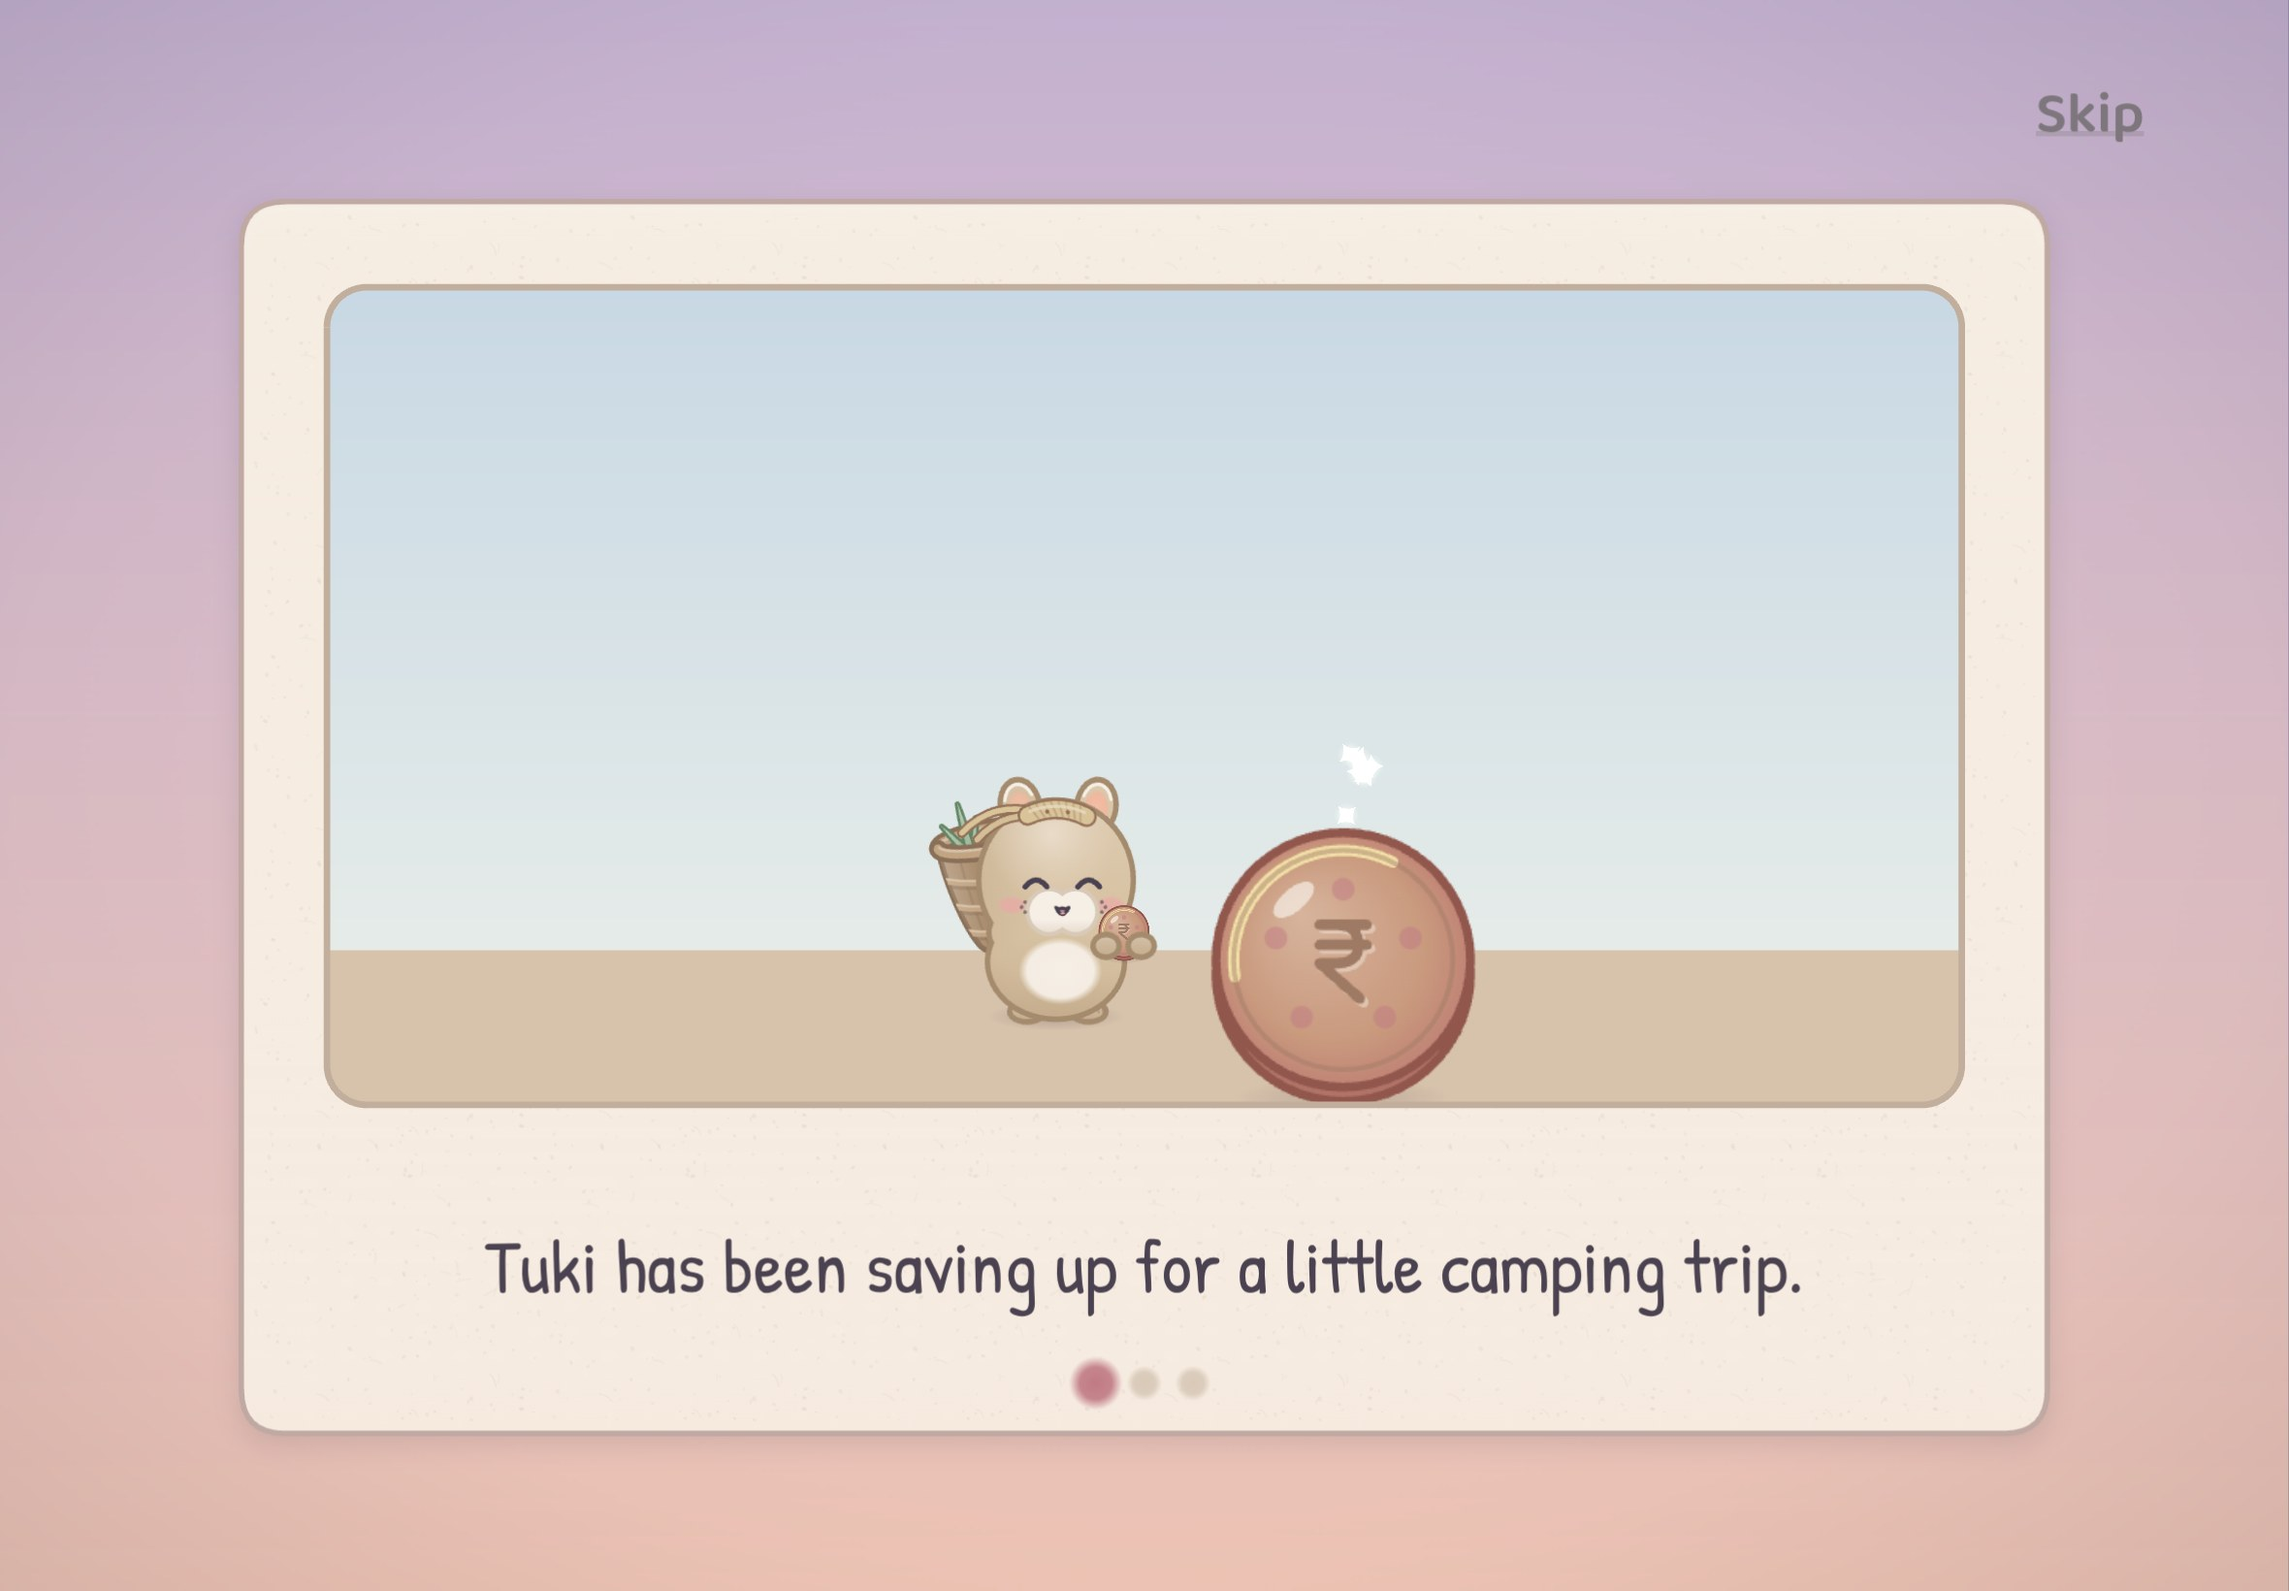
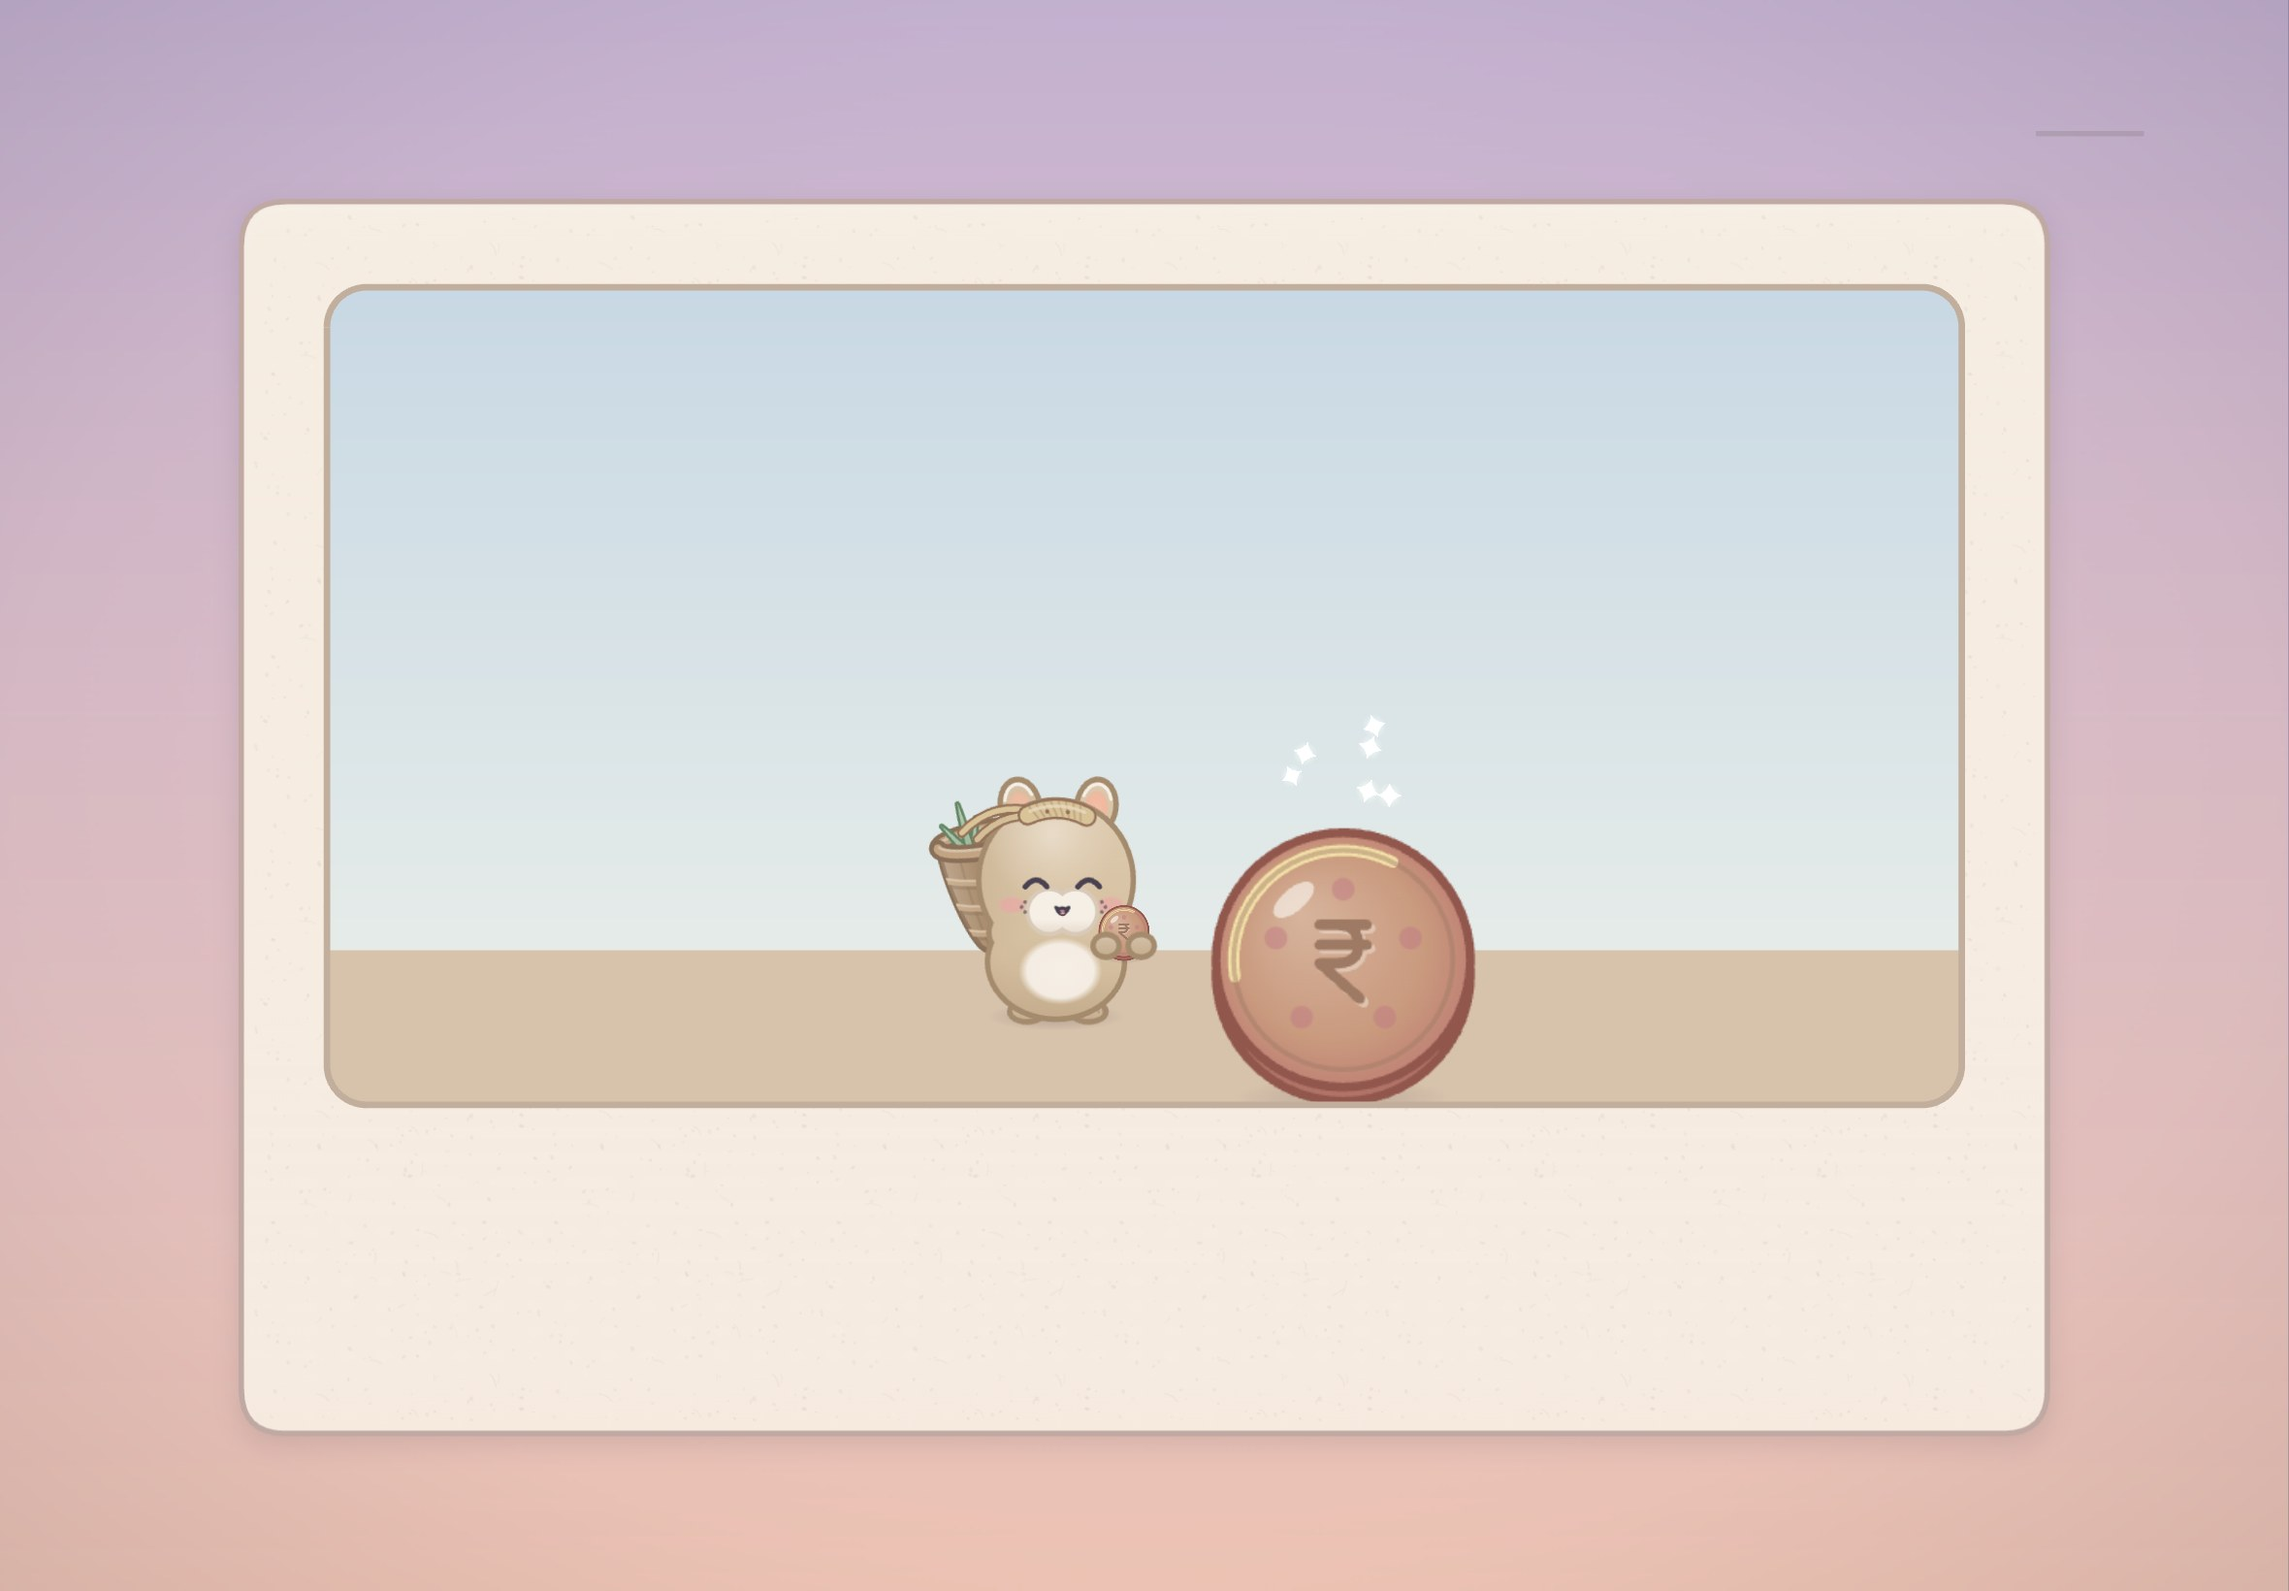
90-second 9:16 trailer page: real game frames, storybook captions, live fireflies/rain/glow, the game's own score
Claude-Session: https://claude.ai/code/session_016FFXaF7koL1CzQcgHmTiq6

Changed region(s): [[0.2165, 0.7774, 0.7733, 0.9018], [0.5568, 0.4665, 0.6186, 0.5287], [0.897, 0.0622, 0.928, 0.0933]]

diff --git a/marketing/trailer/trailer.html b/marketing/trailer/trailer.html
@@ -1,3 +1,4 @@
+<meta charset="utf-8">
 <title>Moonlight Momos Trailer</title>
 <meta name="claude:viewport-fit-sides" content="cover">
 <meta name="description" content="A 90-second vertical trailer for Moonlight Momos, a tiny camping trip.">
@@ -62,15 +63,16 @@
   .shade {
     pointer-events: none;
     background:
-      linear-gradient(to bottom, rgba(27, 29, 51, 0.38) 0%, rgba(27, 29, 51, 0) 18%, rgba(27, 29, 51, 0) 58%, rgba(27, 29, 51, 0.62) 100%),
+      linear-gradient(to bottom, rgba(27, 29, 51, 0.55) 0%, rgba(27, 29, 51, 0.22) 22%, rgba(27, 29, 51, 0) 38%, rgba(27, 29, 51, 0) 72%, rgba(27, 29, 51, 0.35) 100%),
       radial-gradient(130% 90% at 50% 45%, rgba(0, 0, 0, 0) 60%, rgba(18, 16, 30, 0.35) 100%);
   }
   .caps { pointer-events: none; }
+  /* Captions sit in the upper third: Reels covers the bottom fifth with its own UI. */
   .cap {
     position: absolute;
     left: 9cqw;
     right: 9cqw;
-    bottom: 15cqh;
+    top: 15cqh;
     margin: 0;
     font-family: var(--story);
     font-size: clamp(18px, 7.4cqw, 44px);
@@ -82,9 +84,8 @@
     opacity: 0;
     will-change: opacity, transform;
   }
-  .cap.top { bottom: auto; top: 11cqh; }
-  .cap.low { bottom: 5cqh; }
-  .endcard { display: grid; align-content: center; justify-items: center; gap: 2.4cqh; pointer-events: none; padding-bottom: 18cqh; }
+  .cap.top { top: 11cqh; }
+  .endcard { display: grid; align-content: start; justify-items: center; gap: 2.4cqh; pointer-events: none; padding-top: 13cqh; }
   .endcard img { width: 82cqw; max-width: 100%; opacity: 0; will-change: transform, opacity; }
   .endcard p { margin: 0; opacity: 0; text-align: center; }
   .endcard .tag { font-family: var(--story); font-size: clamp(18px, 7cqw, 42px); text-shadow: 0 2px 0 rgba(42, 36, 54, 0.55); }
@@ -110,7 +111,7 @@
     padding: 0 8cqw 9cqh;
     background:
       linear-gradient(to bottom, rgba(27, 29, 51, 0.05) 0%, rgba(27, 29, 51, 0.25) 45%, rgba(27, 29, 51, 0.85) 100%),
-      var(--poster-img, none) center / cover no-repeat;
+      var(--poster-img, none) 44% 50% / cover no-repeat;
     text-align: center;
     z-index: 5;
   }
@@ -220,23 +221,24 @@
   // fx: live layers drawn over the frame.
   var SHOTS = [
     { src: 'lake_glow_3', t0: 0, dur: 7400, fade: 900, from: { cx: 0.66, cy: 0.64, z: 1.2 }, to: { cx: 0.84, cy: 0.6, z: 1.4 }, fx: [{ k: 'glow', at: 'lake_glow.glow', r: 0.035 }, { k: 'fireflies', n: 10, y0: 0.5, y1: 0.85 }] },
-    { src: 'intro', t0: 7000, dur: 7400, fade: 900, from: { cx: 0.525, cy: 0.42, z: 1.42 }, to: { cx: 0.525, cy: 0.41, z: 1.52 }, fx: [{ k: 'sparkles', at: [0.59, 0.56], n: 6 }] },
+    { src: 'intro', t0: 7000, dur: 7400, fade: 900, from: { cx: 0.525, cy: 0.5, z: 1.36 }, to: { cx: 0.525, cy: 0.52, z: 1.46 }, fx: [{ k: 'sparkles', at: [0.59, 0.56], n: 6 }] },
     { src: 'shop', t0: 14000, dur: 8400, fade: 900, from: { cx: 0.2, cy: 0.45, z: 1.18 }, to: { cx: 0.23, cy: 0.42, z: 1.32 }, fx: [{ k: 'motes', n: 12 }] },
     { src: 'dawn', t0: 22000, dur: 10400, fade: 1000, from: { cx: 0.34, cy: 0.52, z: 1.06 }, to: { cx: 0.55, cy: 0.55, z: 1.14 }, fx: [{ k: 'motes', n: 18 }] },
     { src: 'bite', t0: 32000, dur: 3400, fade: 400, from: { cx: 0.75, cy: 0.64, z: 1.2 }, to: { cx: 0.77, cy: 0.66, z: 1.32 }, fx: [] },
     { src: 'catch', t0: 35000, dur: 3400, fade: 300, from: { cx: 0.5, cy: 0.5, z: 0.995 }, to: { cx: 0.5, cy: 0.5, z: 1.03 }, fx: [{ k: 'sparkles', at: [0.5, 0.3], n: 14 }] },
-    { src: 'forage', t0: 38000, dur: 3400, fade: 400, from: { cx: 0.42, cy: 0.6, z: 1.25 }, to: { cx: 0.46, cy: 0.6, z: 1.32 }, fx: [{ k: 'motes', n: 10 }] },
-    { src: 'kopila', t0: 41000, dur: 3400, fade: 400, from: { cx: 0.36, cy: 0.6, z: 1.4 }, to: { cx: 0.38, cy: 0.6, z: 1.52 }, fx: [] },
-    { src: 'fire', t0: 44000, dur: 8400, fade: 1000, from: { cx: 0.5, cy: 0.55, z: 1.05 }, to: { cx: 0.5, cy: 0.6, z: 1.3 }, fx: [{ k: 'fireflies', n: 26, y0: 0.35, y1: 0.85 }, { k: 'embers', at: 'fire.fire' }] },
-    { src: 'rain', t0: 52000, dur: 3900, fade: 900, from: { cx: 0.55, cy: 0.55, z: 1.1 }, to: { cx: 0.56, cy: 0.58, z: 1.2 }, fx: [{ k: 'rain', n: 90 }] },
-    { src: 'scale', t0: 55500, dur: 3100, fade: 900, from: { cx: 0.62, cy: 0.62, z: 1.35 }, to: { cx: 0.66, cy: 0.64, z: 1.5 }, fx: [{ k: 'glow', at: 'scale.scale', r: 0.05, tint: '220,232,245' }, { k: 'sparkles', at: 'scale.scale', n: 8 }] },
-    { src: 'legend', t0: 58200, dur: 6200, fade: 800, from: { cx: 0.2, cy: 0.52, z: 1.05 }, to: { cx: 0.22, cy: 0.5, z: 1.2 }, fx: [] },
-    { src: 'momos', t0: 64000, dur: 6400, fade: 800, from: { cx: 0.5, cy: 0.45, z: 1.0 }, to: { cx: 0.5, cy: 0.42, z: 1.12 }, fx: [{ k: 'sparkles', at: 'center', n: 16 }] },
-    { src: 'finale_a', t0: 70000, dur: 3000, fade: 1000, from: { cx: 0.6, cy: 0.58, z: 1.2 }, to: { cx: 0.64, cy: 0.58, z: 1.28 }, fx: [{ k: 'rain', n: 60 }] },
-    { src: 'finale_b', t0: 72600, dur: 3000, fade: 900, from: { cx: 0.7, cy: 0.56, z: 1.15 }, to: { cx: 0.72, cy: 0.52, z: 1.2 }, fx: [{ k: 'rain', n: 50 }] },
-    { src: 'finale_c', t0: 75200, dur: 3000, fade: 900, from: { cx: 0.74, cy: 0.5, z: 1.15 }, to: { cx: 0.74, cy: 0.48, z: 1.22 }, fx: [{ k: 'rain', n: 40 }] },
-    { src: 'finale_still', t0: 77800, dur: 4800, fade: 1100, from: { cx: 0.72, cy: 0.45, z: 1.12 }, to: { cx: 0.66, cy: 0.4, z: 1.0 }, fx: [{ k: 'fireflies', n: 20, y0: 0.2, y1: 0.8 }] },
-    { src: 'title', t0: 82000, dur: 8000, fade: 1400, from: { cx: 0.52, cy: 0.62, z: 1.12 }, to: { cx: 0.54, cy: 0.66, z: 1.2 }, fx: [{ k: 'fireflies', n: 30, y0: 0.4, y1: 0.95 }] },
+    { src: 'forage', t0: 38000, dur: 3400, fade: 400, from: { cx: 0.42, cy: 0.64, z: 1.3 }, to: { cx: 0.45, cy: 0.64, z: 1.38 }, fx: [{ k: 'motes', n: 10 }] },
+    { src: 'kopila', t0: 41000, dur: 3400, fade: 400, from: { cx: 0.48, cy: 0.66, z: 1.45 }, to: { cx: 0.47, cy: 0.64, z: 1.58 }, fx: [] },
+    { src: 'fire', t0: 44000, dur: 8400, fade: 1000, from: { cx: 0.42, cy: 0.6, z: 1.12 }, to: { cx: 0.42, cy: 0.66, z: 1.34 }, fx: [{ k: 'fireflies', n: 26, y0: 0.35, y1: 0.85 }, { k: 'embers', at: 'fire.fire' }] },
+    { src: 'rain', t0: 52000, dur: 3900, fade: 900, from: { cx: 0.38, cy: 0.6, z: 1.15 }, to: { cx: 0.38, cy: 0.63, z: 1.26 }, fx: [{ k: 'rain', n: 90 }] },
+    { src: 'scale', t0: 55500, dur: 3100, fade: 900, from: { cx: 0.42, cy: 0.68, z: 1.4 }, to: { cx: 0.45, cy: 0.7, z: 1.55 }, fx: [{ k: 'glow', at: 'scale.scale', r: 0.03, tint: '220,232,245' }, { k: 'sparkles', at: 'scale.scale', n: 8 }] },
+    { src: 'legend', t0: 58200, dur: 6200, fade: 800, from: { cx: 0.22, cy: 0.42, z: 1.35 }, to: { cx: 0.22, cy: 0.38, z: 1.55 }, fx: [{ k: 'motes', n: 10 }] },
+    { src: 'momos', t0: 64000, dur: 6400, fade: 800, from: { cx: 0.5, cy: 0.5, z: 0.93 }, to: { cx: 0.5, cy: 0.5, z: 0.96 }, fx: [{ k: 'sparkles', at: [0.5, 0.36], n: 16 }] },
+    { src: 'finale_a', t0: 70000, dur: 2900, fade: 1000, from: { cx: 0.66, cy: 0.7, z: 1.3 }, to: { cx: 0.68, cy: 0.7, z: 1.38 }, lift: 1.15, fx: [{ k: 'rain', n: 60 }] },
+    { src: 'finale_b', t0: 72400, dur: 2900, fade: 450, from: { cx: 0.74, cy: 0.72, z: 1.25 }, to: { cx: 0.77, cy: 0.72, z: 1.3 }, lift: 1.15, fx: [{ k: 'rain', n: 50 }, { k: 'glow', at: [0.86, 0.86], r: 0.06, tint: '207,230,226' }] },
+    { src: 'finale_c', t0: 74800, dur: 2700, fade: 400, from: { cx: 0.78, cy: 0.66, z: 1.12 }, to: { cx: 0.8, cy: 0.62, z: 1.14 }, lift: 1.12, fx: [{ k: 'rain', n: 40 }] },
+    { src: 'finale_d', t0: 77000, dur: 2700, fade: 350, from: { cx: 0.8, cy: 0.5, z: 1.15 }, to: { cx: 0.81, cy: 0.47, z: 1.2 }, fx: [{ k: 'fireflies', n: 12, y0: 0.4, y1: 0.8 }] },
+    { src: 'finale_still', t0: 79200, dur: 3800, fade: 350, from: { cx: 0.75, cy: 0.5, z: 1.15 }, to: { cx: 0.71, cy: 0.42, z: 1.0 }, fx: [{ k: 'fireflies', n: 20, y0: 0.2, y1: 0.8 }] },
+    { src: 'fire', t0: 82000, dur: 8000, fade: 1400, from: { cx: 0.46, cy: 0.5, z: 1.0 }, to: { cx: 0.47, cy: 0.52, z: 1.06 }, fx: [{ k: 'fireflies', n: 30, y0: 0.45, y1: 0.95 }, { k: 'embers', at: 'fire.fire' }] },
   ];
 
   var CAPS = [
@@ -245,7 +247,6 @@
     { t0: 14700, t1: 21500, text: '“No rush,” says Boju. “The mountains have waited ages.”' },
     { t0: 23000, t1: 31200, text: 'A tent, a kettle, a rod. That’s enough.' },
     { t0: 32300, t1: 34800, text: 'Something nibbles…' },
-    { t0: 35400, t1: 37800, text: 'Pink from the cold!', low: true },
     { t0: 38400, t1: 40800, text: 'Berries for the pot.' },
     { t0: 41400, t1: 43800, text: 'Someone small is watching.' },
     { t0: 45000, t1: 51400, text: 'Some nights are just for sitting.' },
@@ -319,13 +320,14 @@
 
   var imgs = SHOTS.map(function (s) {
     var im = new Image();
+    if (s.lift) im.style.filter = 'brightness(' + s.lift + ') saturate(1.05)';
     im.decoding = 'async';
     im.alt = '';
     im.src = 'frames/' + s.src + '.jpg';
     shotsEl.appendChild(im);
     return im;
   });
-  stage.style.setProperty('--poster-img', 'url("frames/title.jpg")');
+  stage.style.setProperty('--poster-img', 'url("frames/fire.jpg")');
   var loaded = 0;
   imgs.forEach(function (im) {
     var done = function () {
@@ -337,7 +339,7 @@
 
   var capEls = CAPS.map(function (c) {
     var p = document.createElement('p');
-    p.className = 'cap' + (c.top ? ' top' : '') + (c.low ? ' low' : '');
+    p.className = 'cap' + (c.top ? ' top' : '');
     p.textContent = c.text;
     capsEl.appendChild(p);
     return p;
@@ -363,8 +365,9 @@
     var cx = lerp(s.from.cx, s.to.cx, k);
     var cy = lerp(s.from.cy, s.to.cy, k);
     var ih = H * z, iw = ih * ASPECT;
-    var x = clamp(W / 2 - cx * iw, W - iw, 0);
-    var y = clamp(H / 2 - cy * ih, H - ih, 0);
+    // z < 1 letterboxes (the frame sits centred on the night field).
+    var x = iw <= W ? (W - iw) / 2 : clamp(W / 2 - cx * iw, W - iw, 0);
+    var y = ih <= H ? (H - ih) / 2 : clamp(H / 2 - cy * ih, H - ih, 0);
     return { x: x, y: y, z: z, iw: iw, ih: ih };
   }
   /** Capture point (CSS px on 1180 x 820) to stage px under a view. */

diff --git a/DECISIONS.md b/DECISIONS.md
@@ -109,3 +109,14 @@ All 74 accents from WORLD.md section 8 were added to `ACCENTS` in `src/palette.t
 | Scene switches | `go()` finishes on the next tick (after the fade, or immediately for no-fade switches) | Stopping the old scene from the fade callback | The fade completes inside the old scene's own step; stopping it there let its `update()` run on torn-down cameras |
 | Title re-check (M4) | Keep "Moonlight Momos" | Renaming | Re-searched before ship (web, Steam, itch.io): no game by that name; nearest are *Momodora: Reverie Under the Moonlight* (a platformer) and pet games whose creatures are called "Momos" (Marimomo, Momoguro). Distinct enough |
 | Screenshots in git | Commit only the final milestone set (`shots/m4/`, ~37 MB); earlier sets stay local, their scores live in `REVIEW.md` | Committing every milestone's PNGs | Each 2x set is ~37 MB; the review text is the record |
+
+## 7. Marketing: the 90-second trailer (`marketing/trailer/`)
+
+| Area | Chosen | Rejected | Why |
+| --- | --- | --- | --- |
+| Medium | An animated page (claude.ai artifact) that pans across real game frames, with live fireflies, rain, glows and the game's own score; screen-record it for Reels | Higgsfield AI video | Free and exactly on-model; AI motion drifts off the hand-drawn style (faces, text) |
+| Shape | 90 s, 9:16, mystery arc: glow hook → storybook → shop → cozy montage → clues → full Kuhiro reveal → "Coming soon" | Day-in-the-life; feature tour | One thread (the glow) holds 90 s; the reveal is the payoff (spoiler accepted by the owner) |
+| Frames | Captured from the running game at iPad 1180 x 820 @2x with the HUD and UI chrome hidden (`scripts/trailer-frames.mjs`); the page crops 9:16 out of each | Re-laying the game out in portrait | The game's landscape art is the real thing; Ken Burns crops keep every pixel genuine |
+| Captions | Storybook lines in Patrick Hand, upper third | Bottom captions | Reels covers the bottom fifth with its own UI |
+| Sound | The game's audio engine built to an IIFE and inlined (`audio-entry.ts`, 58 KB); "Play with sound" starts it inside the tap | Silent with captions | 90 s silent drags; browsers only allow audio after a tap |
+| Finale cuts | 350-450 ms cuts between finale frames | 1 s dissolves | Kuhiro sits in different places frame to frame; long dissolves ghosted a double guardian |
